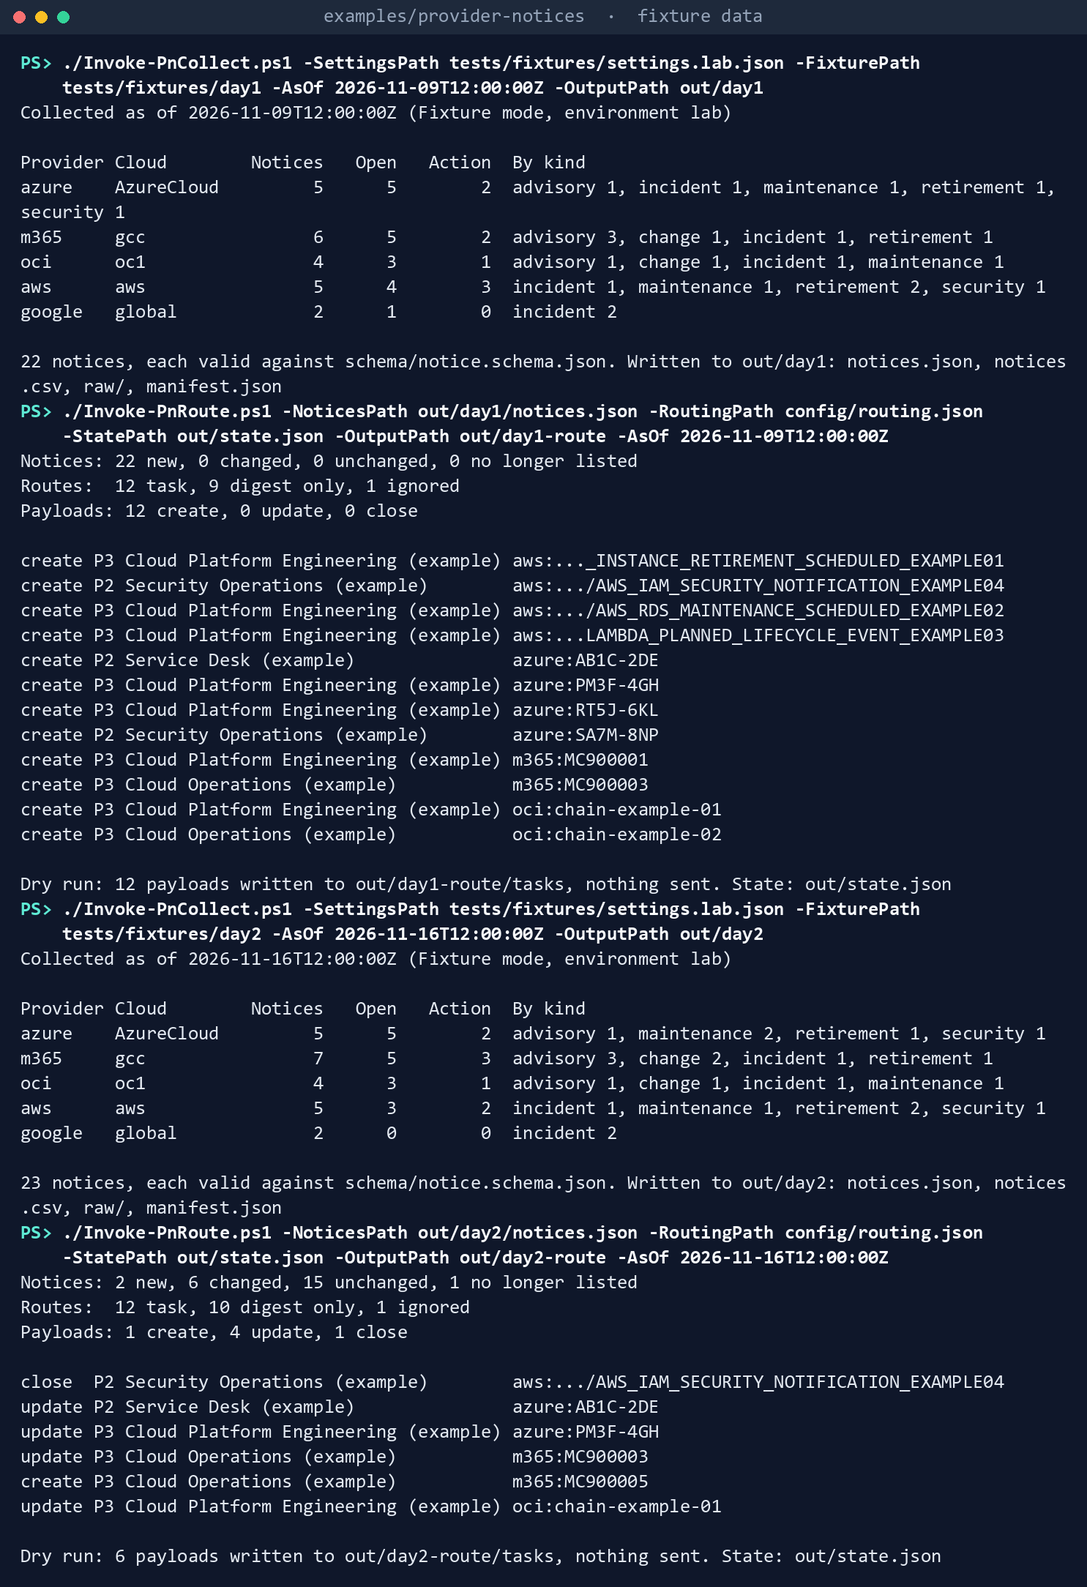
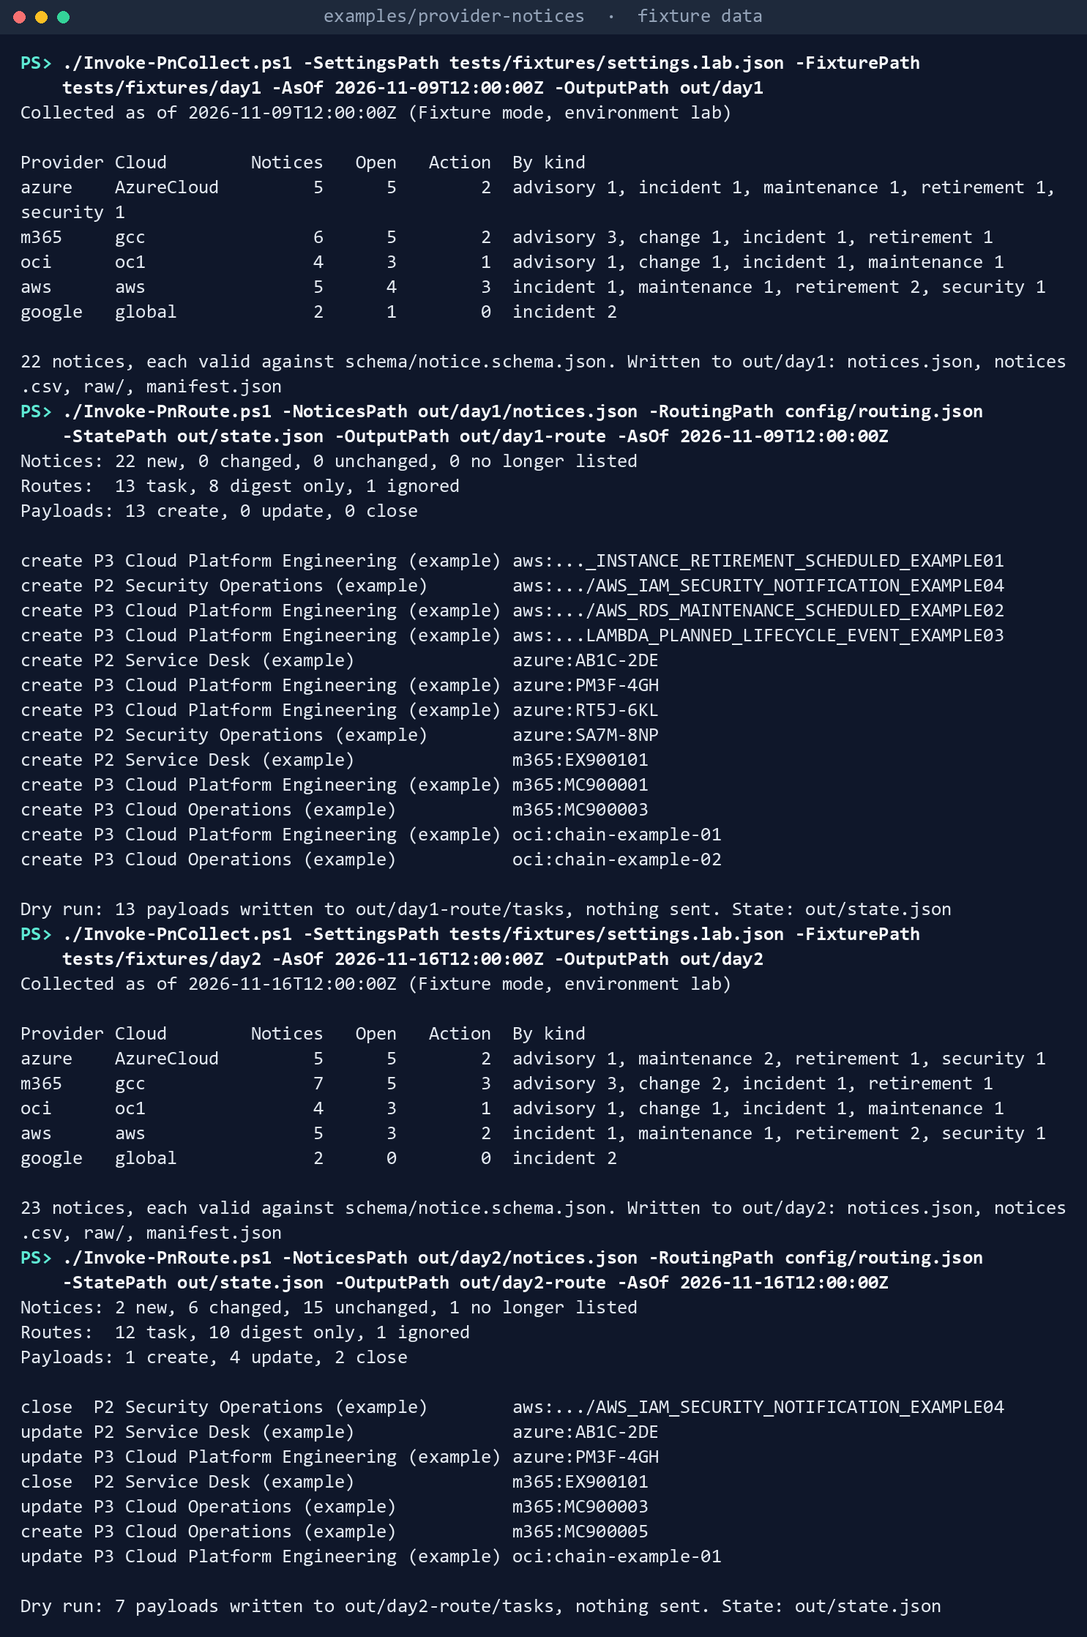
Provider notices: route open Microsoft 365 incidents to a task (R04b)
The routing template's incident rule (R04) needs the provider to name the
agency's resources. Microsoft 365 service health issues are the tenant's
own and carry no resource list, so R04 never matched one and an open
Microsoft 365 incident went only to the weekly digest at P4.

Adds R04b (provider m365, kind incident, status open -> task, P2, the
service desk) to the template, the worksheet and the lab routing; tests
for the new route and for a resolved advisory staying in the digest;
regenerated captures (day 1: 13 creates; day 2: 2 closes); and the
matching text in the guide's G6, Book 15 Chapter 14, workbook Chapters
06 and 07, training Modules 7 and 8, and the kit README.

diff --git a/docs/project-plans/developer-workbooks/provider-notices/06-routing-to-owners-and-ticket-to-machine-tasks.md b/docs/project-plans/developer-workbooks/provider-notices/06-routing-to-owners-and-ticket-to-machine-tasks.md
@@ -141,7 +141,7 @@ Remove-Item -Recurse -Force out
 
 <!-- labs:end -->
 
-1. **Check the lab's routing.** Six rules, in the order they are tried:
+1. **Check the lab's routing.** Seven rules, in the order they are tried. R04 makes an open incident a task when the provider names the agency's resources; R04b does the same for every open Microsoft 365 incident, because Microsoft 365 service health is the tenant's own and names no resources, so R04 alone would leave it for the digest:
 
    ```powershell
    Import-Module ./powershell/ProviderNotices/ProviderNotices.psm1
@@ -188,8 +188,8 @@ Remove-Item -Recurse -Force out
 
    ```text
    Notices: 22 new, 0 changed, 0 unchanged, 0 no longer listed
-   Routes:  12 task, 9 digest only, 1 ignored
-   Payloads: 12 create, 0 update, 0 close
+   Routes:  13 task, 8 digest only, 1 ignored
+   Payloads: 13 create, 0 update, 0 close
    ```
 
    <!-- capture:begin 06-4 (generated by scripts/kit_captures.py; not part of the reviewed page) -->
@@ -198,7 +198,7 @@ Remove-Item -Recurse -Force out
 
    <!-- capture:end -->
 
-   The Microsoft Viva post is ignored by R06; the rest that need no task go to the digest.
+   The open Exchange Online incident is a P2 task for the service desk by R04b. The Microsoft Viva post is ignored by R06; the rest that need no task go to the digest.
 
 5. **Read one payload.** The Azure retirement: P3 with a 24-hour response window, the provider's action date kept in `action_due`, a contingency review, and the five clauses:
 
@@ -239,7 +239,7 @@ Remove-Item -Recurse -Force out
    ```text
    Notices: 2 new, 6 changed, 15 unchanged, 1 no longer listed
    Routes:  12 task, 10 digest only, 1 ignored
-   Payloads: 1 create, 4 update, 1 close
+   Payloads: 1 create, 4 update, 2 close
    ```
 
    <!-- capture:begin 06-7 (generated by scripts/kit_captures.py; not part of the reviewed page) -->
@@ -260,7 +260,7 @@ Remove-Item -Recurse -Force out
 
    <!-- capture:end -->
 
-   Two rescheduled maintenance windows (Azure and OCI) and an updated post are updates; the Azure incident the provider no longer lists is an `absent` update asking for the re-read; the new Microsoft 365 post is a create; the AWS security notification AWS closed is a `close` that also asks for the re-read.
+   Two rescheduled maintenance windows (Azure and OCI) and an updated post are updates; the Azure incident the provider no longer lists is an `absent` update asking for the re-read; the new Microsoft 365 post is a create; the AWS security notification AWS closed and the Exchange Online incident Microsoft resolved are each a `close` that also asks for the re-read. The resolved incident matches no task rule now, so its `ruleId` is `default`; its close payload keeps the task's own severity and group from the state.
 
 9. **Run the router's tests,** including the one that reads the finding contract:
 
@@ -274,7 +274,7 @@ Remove-Item -Recurse -Force out
 
    <!-- capture:end -->
 
-**Expected result:** `PassedCount` 31 and `FailedCount` 0, `out/day2-route/tasks` holding six payloads, and `out/state.json` holding every notice with its first-seen time. Delete `out` when you're done:
+**Expected result:** `PassedCount` 33 and `FailedCount` 0, `out/day2-route/tasks` holding seven payloads, and `out/state.json` holding every notice with its first-seen time. Delete `out` when you're done:
 
 ```powershell
 Remove-Item -Recurse -Force out
@@ -368,6 +368,7 @@ No KSI cites base CM-4; KSI-CMT-LMC and KSI-CMT-VTD cite CM-4(2), as the guide r
 | A task resolved because the provider resolved its notice | A retirement shows done while the resource still runs the retired SKU | `close` and `absent` payloads ask for the re-read (C4); the task is resolved on the agency's own check *(design guidance)* |
 | The same notice ticketed every week | The queue fills and people stop reading it | State with fingerprints; unchanged notices write nothing |
 | A broad rule first | Security advisories land in the general queue | Rules tried in order; the template puts security and retirements first |
+| An incident rule that needs named resources | Microsoft 365 service health names no resources, so a tenant-wide outage waits for the weekly digest | The template's R04b makes every open Microsoft 365 incident a P2 task; the weekly run is still not how the desk first hears of an outage |
 | The routing in a public repository | Owners, assignment groups and which clouds matter, published | Templates and fictional examples only; the agency's routing stays at work |
 | A token in the settings file | A secret in a file that gets filed with the change record | `Read-PnSettings` refuses secret-like values; the sender reads the token from an environment variable |
 | The provider's date confused with the response window | A P3 task looks due in a year, or a retirement due tomorrow | `response_due` and `action_due` are separate fields |
@@ -377,6 +378,7 @@ No KSI cites base CM-4; KSI-CMT-LMC and KSI-CMT-VTD cite CM-4(2), as the guide r
 
 - [ ] The agency's routing was written at work from the template, passes `Read-PnRouting`, and is reviewed by the change manager and, for the security route, the ISSO.
 - [ ] Security advisories and retirements route before the general rule.
+- [ ] An open Microsoft 365 incident routes to a task (R04b), not to the digest.
 - [ ] A dry run's payloads were read before any were sent.
 - [ ] A second run on the same collection writes nothing.
 - [ ] Tasks are resolved on the re-read, not on the provider's closure.

diff --git a/docs/training/provider-notices/07-routing-to-owners.md b/docs/training/provider-notices/07-routing-to-owners.md
@@ -125,17 +125,18 @@ Remove-Item -Recurse -Force out
     ```
 
     ```text
-    id  route  severity group
-    --  -----  -------- -----
-    R01 task   P2       Security Operations (example)
-    R02 task   P3       Cloud Platform Engineering (example)
-    R03 task   P3       Cloud Platform Engineering (example)
-    R04 task   P2       Service Desk (example)
-    R05 task   P3       Cloud Operations (example)
-    R06 ignore
+    id   route  severity group
+    --   -----  -------- -----
+    R01  task   P2       Security Operations (example)
+    R02  task   P3       Cloud Platform Engineering (example)
+    R03  task   P3       Cloud Platform Engineering (example)
+    R04  task   P2       Service Desk (example)
+    R04b task   P2       Service Desk (example)
+    R05  task   P3       Cloud Operations (example)
+    R06  ignore
     ```
 
-    Six rules, in the order they are tried.
+    Seven rules, in the order they are tried. R04b makes every open Microsoft 365 incident a task: Microsoft 365 service health names no resources, so R04, which needs them, never matches one.
 
 2. **Try the template as it ships:**
 
@@ -161,11 +162,11 @@ Remove-Item -Recurse -Force out
 
     ```text
     Notices: 22 new, 0 changed, 0 unchanged, 0 no longer listed
-    Routes:  12 task, 9 digest only, 1 ignored
-    Payloads: 12 create, 0 update, 0 close
+    Routes:  13 task, 8 digest only, 1 ignored
+    Payloads: 13 create, 0 update, 0 close
     ```
 
-    Then one line per payload, and `Dry run: 12 payloads written to out/day1-route/tasks, nothing sent.` The Microsoft Viva post is ignored by R06; the rest that need no task go to the digest.
+    Then one line per payload, and `Dry run: 13 payloads written to out/day1-route/tasks, nothing sent.` The open Exchange Online incident is a P2 task for the service desk by R04b. The Microsoft Viva post is ignored by R06; the rest that need no task go to the digest.
 
 5. **Read one payload:**
 
@@ -196,7 +197,7 @@ Remove-Item -Recurse -Force out
     ```text
     Notices: 2 new, 6 changed, 15 unchanged, 1 no longer listed
     Routes:  12 task, 10 digest only, 1 ignored
-    Payloads: 1 create, 4 update, 1 close
+    Payloads: 1 create, 4 update, 2 close
     ```
 
 8. **Read what each payload is for:**
@@ -205,7 +206,7 @@ Remove-Item -Recurse -Force out
     Import-Csv out/day2-route/routing.csv | Where-Object action | Format-Table change, ruleId, action, severity, noticeId
     ```
 
-    Six rows. The Azure and OCI rescheduled maintenance windows and the updated Microsoft 365 post are `changed` updates; the Azure incident the provider no longer lists is an `absent` update asking for the re-read; the new Microsoft 365 post `m365:MC900005` is a `new` create; and the AWS security notification AWS closed is a `close` that also asks for the re-read.
+    Seven rows. The Azure and OCI rescheduled maintenance windows and the updated Microsoft 365 post are `changed` updates; the Azure incident the provider no longer lists is an `absent` update asking for the re-read; the new Microsoft 365 post `m365:MC900005` is a `new` create; and the AWS security notification AWS closed and the Exchange Online incident Microsoft resolved are each a `close` that also asks for the re-read. The resolved incident shows `ruleId` `default`, since no task rule matches it now; its close payload keeps the task's severity and group.
 
 9. **Run the router's tests,** including the one that reads the finding contract:
 
@@ -213,7 +214,7 @@ Remove-Item -Recurse -Force out
     Invoke-Pester -Path tests/Router.Tests.ps1 -Output None -PassThru | Select-Object PassedCount, FailedCount
     ```
 
-    Expect `PassedCount 31`, `FailedCount 0`.
+    Expect `PassedCount 33`, `FailedCount 0`.
 
 Delete `out` when you're done:
 
@@ -242,10 +243,10 @@ Remove-Item -Recurse -Force out
     c. `action_due` overrides `response_due`
     d. The kit should set both to the provider's date
 3. You route the same collection twice. What does the second run write?
-    a. The same 12 payloads again
+    a. The same 13 payloads again
     b. Nothing: the state holds each notice's fingerprint, and unchanged notices write no payload
-    c. 12 update payloads
-    d. 12 close payloads
+    c. 13 update payloads
+    d. 13 close payloads
 4. AWS closes its security notification. What does the router do?
     a. Closes the task
     b. Deletes the task
@@ -268,7 +269,7 @@ Remove-Item -Recurse -Force out
 
 ## Summary (2 minutes)
 
-You checked six routing rules, saw the template refused, routed 22 notices into 12 task payloads, read one with both its dates and its five clauses, watched a re-run write nothing, and read the second week's create, updates and close.
+You checked seven routing rules, saw the template refused, routed 22 notices into 13 task payloads, read one with both its dates and its five clauses, watched a re-run write nothing, and read the second week's create, updates and closes.
 
 **The evidence an ISSO keeps** for G6 from this module: each routing run's `tasks/`, `tasks.json`, `routing.csv`, `state.json` and manifest, dated; the reviewed routing file's SHA-256; and the change records the payloads open. Before shipping, work through the chapter's [Checklist](../../project-plans/developer-workbooks/provider-notices/06-routing-to-owners-and-ticket-to-machine-tasks.md#checklist).
 

diff --git a/docs/project-plans/developer-workbooks/provider-notices/index.md b/docs/project-plans/developer-workbooks/provider-notices/index.md
@@ -45,7 +45,7 @@ The target estate is a civilian agency at FedRAMP Moderate in Microsoft 365 GCC 
 |---|---|---|
 | Implementation guide | The seven gates: steps, federal requirements and evidence, government-cloud availability, interim paths, **Validate** and rollback | [Provider Notices: An Implementation Guide](../../../books/guides/provider-notices-implementation.md) |
 | This workbook | One chapter per gate: the code the gate needs, labs, verified facts, evidence; and a runbook for test and production | This page and its eight chapters |
-| Code | `examples/provider-notices`: four entry scripts, one PowerShell module with a collector and normalizer per provider, the router, the digest and the evidence chain, the runbook's `deploy/` scripts, fictional fixtures for two weeks, and 165 Pester tests (140 in `tests`, 25 in `deploy/tests`) | [`examples/provider-notices`](https://github.com/WhalerMike/modernization-workbook/tree/main/examples/provider-notices) |
+| Code | `examples/provider-notices`: four entry scripts, one PowerShell module with a collector and normalizer per provider, the router, the digest and the evidence chain, the runbook's `deploy/` scripts, fictional fixtures for two weeks, and 167 Pester tests (142 in `tests`, 25 in `deploy/tests`) | [`examples/provider-notices`](https://github.com/WhalerMike/modernization-workbook/tree/main/examples/provider-notices) |
 | The task pattern | Ticket-to-Machine: the typed task, its lanes and the five clauses of the request chain | [Book 13, Chapter 10](../../../books/b13-governance/10-ticket-to-machine.md) and [Appendix B](../../../books/b13-governance/appendix-b-ticket-to-machine-reference.md); [*Building Ticket-to-Machine*](../ticket-to-machine/index.md) |
 | Story deck | One narrated deck, about 16 minutes, that follows one fictional Azure retirement notice through every gate, with the kit's own fixtures | *One Retirement Notice, End to End*: [▶ Watch](../../../presentations/watch.html?v=PN_Story_One_Retirement_Notice_Narrated) · [MP4](https://github.com/WhalerMike/modernization-workbook/releases/download/videos-2026-10-23/PN_Story_One_Retirement_Notice_Narrated.mp4) · [Deck source](https://github.com/WhalerMike/modernization-workbook/tree/main/presentations/pn-story-one-retirement-notice) · [Script](https://github.com/WhalerMike/modernization-workbook/blob/main/presentations/pn-story-one-retirement-notice/PN_Story_One_Retirement_Notice_Narration_Script.md) · [Captions](https://github.com/WhalerMike/modernization-workbook/blob/main/presentations/pn-story-one-retirement-notice/PN_Story_One_Retirement_Notice_Narrated.vtt) |
 | Decks and videos | The guide's two-part implementation deck series, and a narrated tour for each chapter | [Implementation guide](../../../books/guides/provider-notices-implementation.md#watch-or-download) and *Narrated chapter tours* below |

diff --git a/docs/books/b15-day2-operations/14-provider-notices.md b/docs/books/b15-day2-operations/14-provider-notices.md
@@ -87,7 +87,7 @@ The lifecycle is the one [Book 13, Chapter 10](../b13-governance/10-ticket-to-ma
 
 **Collect from the provider, not the mailbox.** A read-only identity reads each provider's notices on a schedule, at least weekly, through the provider's own interface: Service Health through Azure Resource Graph, Message center and service health through Microsoft Graph, OCI Announcements, the AWS Health API and Google Cloud Personalized Service Health. Each notice becomes one record with its kind, whether action is required and by when, and which of the agency's resources it names.
 
-**Route by rules, in order.** The routing rules are tried in order and the first match wins, so the specific rules come first: security advisories, then retirements, then maintenance that names the agency's resources, then open incidents that name them, then anything else the provider marks as needing action. A notice that matches none goes to the digest. The order matters: a retirement is often also marked "action required," and the retirement rule, which carries the contingency review, should take it first.
+**Route by rules, in order.** The routing rules are tried in order and the first match wins, so the specific rules come first: security advisories, then retirements, then maintenance that names the agency's resources, then open incidents that name them, then every open Microsoft 365 incident (Microsoft 365 service health is the tenant's own and names no resources, so the rule before it never matches one), then anything else the provider marks as needing action. A notice that matches none goes to the digest. The order matters: a retirement is often also marked "action required," and the retirement rule, which carries the contingency review, should take it first.
 
 **A task is a typed task.** A notice that needs action becomes a task in the ITSM front door, not a second queue ([Chapter 03](03-intake-triage-and-routing.md#routing-two-pipelines-and-an-escalation-lane)). It carries an owner, the program's severity and response window from the finding contract (P1 immediate, P2 one hour, P3 24 hours, P4 72 hours; program design, [Book 13, Appendix B](../b13-governance/appendix-b-ticket-to-machine-reference.md#severity-and-tempo)), and the provider's own action date kept separately. The response window says how fast the owner must pick the task up; the provider's date says when the work must be done, and for a retirement it may be months away. The task is keyed to the provider and the provider's notice ID, so a notice the provider hasn't changed never makes a second task, and an update to the notice (a rescheduled window, a new date) updates the task.
 

diff --git a/docs/books/guides/provider-notices-implementation.md b/docs/books/guides/provider-notices-implementation.md
@@ -538,7 +538,7 @@ A notice that needs action becomes a task with an owner; the rest go in the dige
 
 **Steps.**
 
-1. **Write the routing at work.** Copy `templates/routing.template.json`, or fill `templates/routing-worksheet.csv`, inside the agency's boundary; the kit's [Copilot prompts](https://github.com/WhalerMike/modernization-workbook/blob/main/examples/provider-notices/copilot-prompts.md) draft and review it in Microsoft 365 Copilot Chat. Rules are tried in order and the first match wins, so security advisories and retirements come before the general action-required rule *(design guidance)*.
+1. **Write the routing at work.** Copy `templates/routing.template.json`, or fill `templates/routing-worksheet.csv`, inside the agency's boundary; the kit's [Copilot prompts](https://github.com/WhalerMike/modernization-workbook/blob/main/examples/provider-notices/copilot-prompts.md) draft and review it in Microsoft 365 Copilot Chat. Rules are tried in order and the first match wins, so security advisories and retirements come before the general action-required rule *(design guidance)*. Keep the template's R04b: Microsoft 365 service health issues are the tenant's own and list no affected resources, so the incident rule that needs named resources (R04) never matches them, and without R04b an open Microsoft 365 incident reaches only the digest.
 2. **Check it.** The kit refuses an unknown match key, a task rule without a severity or assignment group, and a placeholder left in:
 
     ```powershell
@@ -586,7 +586,7 @@ On a laptop, no tenant, from `examples/provider-notices`:
 ./Invoke-PnRoute.ps1 -NoticesPath out/day2/notices.json -RoutingPath config/routing.json -StatePath out/state.json -OutputPath out/day2-route -AsOf 2026-11-16T12:00:00Z
 ```
 
-Day 1 writes 12 create payloads. Day 2 writes 1 create, 4 updates (two rescheduled maintenance windows, an updated post, an incident no longer listed) and 1 close, and nothing for the 15 unchanged notices.
+Day 1 writes 13 create payloads. Day 2 writes 1 create, 4 updates (two rescheduled maintenance windows, an updated post, an incident no longer listed) and 2 closes (a security notification and a Microsoft 365 incident the providers closed), and nothing for the 15 unchanged notices.
 :::
 
 <!-- labs:begin try-g6 (generated by scripts/generate_labs.py; not part of the reviewed page) -->

diff --git a/docs/training/provider-notices/08-digest-evidence-and-go-no-go.md b/docs/training/provider-notices/08-digest-evidence-and-go-no-go.md
@@ -126,7 +126,7 @@ Remove-Item -Recurse -Force out
     ./Invoke-PnRoute.ps1 -NoticesPath out/day2/notices.json -RoutingPath config/routing.json -StatePath out/state.json -OutputPath out/day2-route -AsOf 2026-11-16T12:00:00Z
     ```
 
-    The same output as Module 7's steps 3, 4 and 7: 22 notices and 12 creates, then 23 notices and `Payloads: 1 create, 4 update, 1 close`.
+    The same output as Module 7's steps 3, 4 and 7: 22 notices and 13 creates, then 23 notices and `Payloads: 1 create, 4 update, 2 close`.
 
 2. **Write the digest for the second week:**
 
@@ -164,7 +164,7 @@ Remove-Item -Recurse -Force out
     ```
 
     ```text
-    SUMS           Pass  25 files match SHA256SUMS
+    SUMS           Pass  26 files match SHA256SUMS
     CHAIN          Pass  3 records, chain unbroken
     ```
 
@@ -175,7 +175,7 @@ Remove-Item -Recurse -Force out
     ```
 
     ```text
-    SUMS           Pass  25 files match SHA256SUMS
+    SUMS           Pass  26 files match SHA256SUMS
     CHAIN          Pass  3 records, chain unbroken
     STEP-PRE       Fail  no passing record
     STEP-RUN       Fail  no passing record
@@ -213,7 +213,7 @@ Remove-Item -Recurse -Force out
     Invoke-Pester -Path tests -Output None -PassThru | Select-Object PassedCount, FailedCount
     ```
 
-    Expect `PassedCount 140`, `FailedCount 0`.
+    Expect `PassedCount 142`, `FailedCount 0`.
 
 Delete `out` when you're done:
 

diff --git a/docs/project-plans/developer-workbooks/provider-notices/07-the-weekly-digest-and-evidence.md b/docs/project-plans/developer-workbooks/provider-notices/07-the-weekly-digest-and-evidence.md
@@ -215,7 +215,7 @@ Remove-Item -Recurse -Force out
    ```
 
    ```text
-   SUMS           Pass  25 files match SHA256SUMS
+   SUMS           Pass  26 files match SHA256SUMS
    CHAIN          Pass  3 records, chain unbroken
    ```
 
@@ -274,7 +274,7 @@ Remove-Item -Recurse -Force out
 
    <!-- capture:end -->
 
-**Expected result:** `PassedCount` 140 and `FailedCount` 0, and an evidence folder whose `SHA256SUMS` you could hand to the ISSO, before step 8 changed it. Delete `out` when you're done:
+**Expected result:** `PassedCount` 142 and `FailedCount` 0, and an evidence folder whose `SHA256SUMS` you could hand to the ISSO, before step 8 changed it. Delete `out` when you're done:
 
 ```powershell
 Remove-Item -Recurse -Force out

diff --git a/examples/provider-notices/README.md b/examples/provider-notices/README.md
@@ -60,7 +60,7 @@ From `examples/provider-notices`, in PowerShell 7:
 ./Invoke-PnEvidence.ps1 -EvidencePath out/evidence -Check
 ```
 
-Day 1 finds 22 notices and writes 12 task payloads. Day 2, a week later, finds 2 new and 6 changed notices, and one the provider no longer lists; it writes 1 create, 4 updates and 1 close, and nothing for the 15 unchanged.
+Day 1 finds 22 notices and writes 13 task payloads. Day 2, a week later, finds 2 new and 6 changed notices, and one the provider no longer lists; it writes 1 create, 4 updates and 2 closes, and nothing for the 15 unchanged.
 
 ## Lab 2: a test tenant
 
